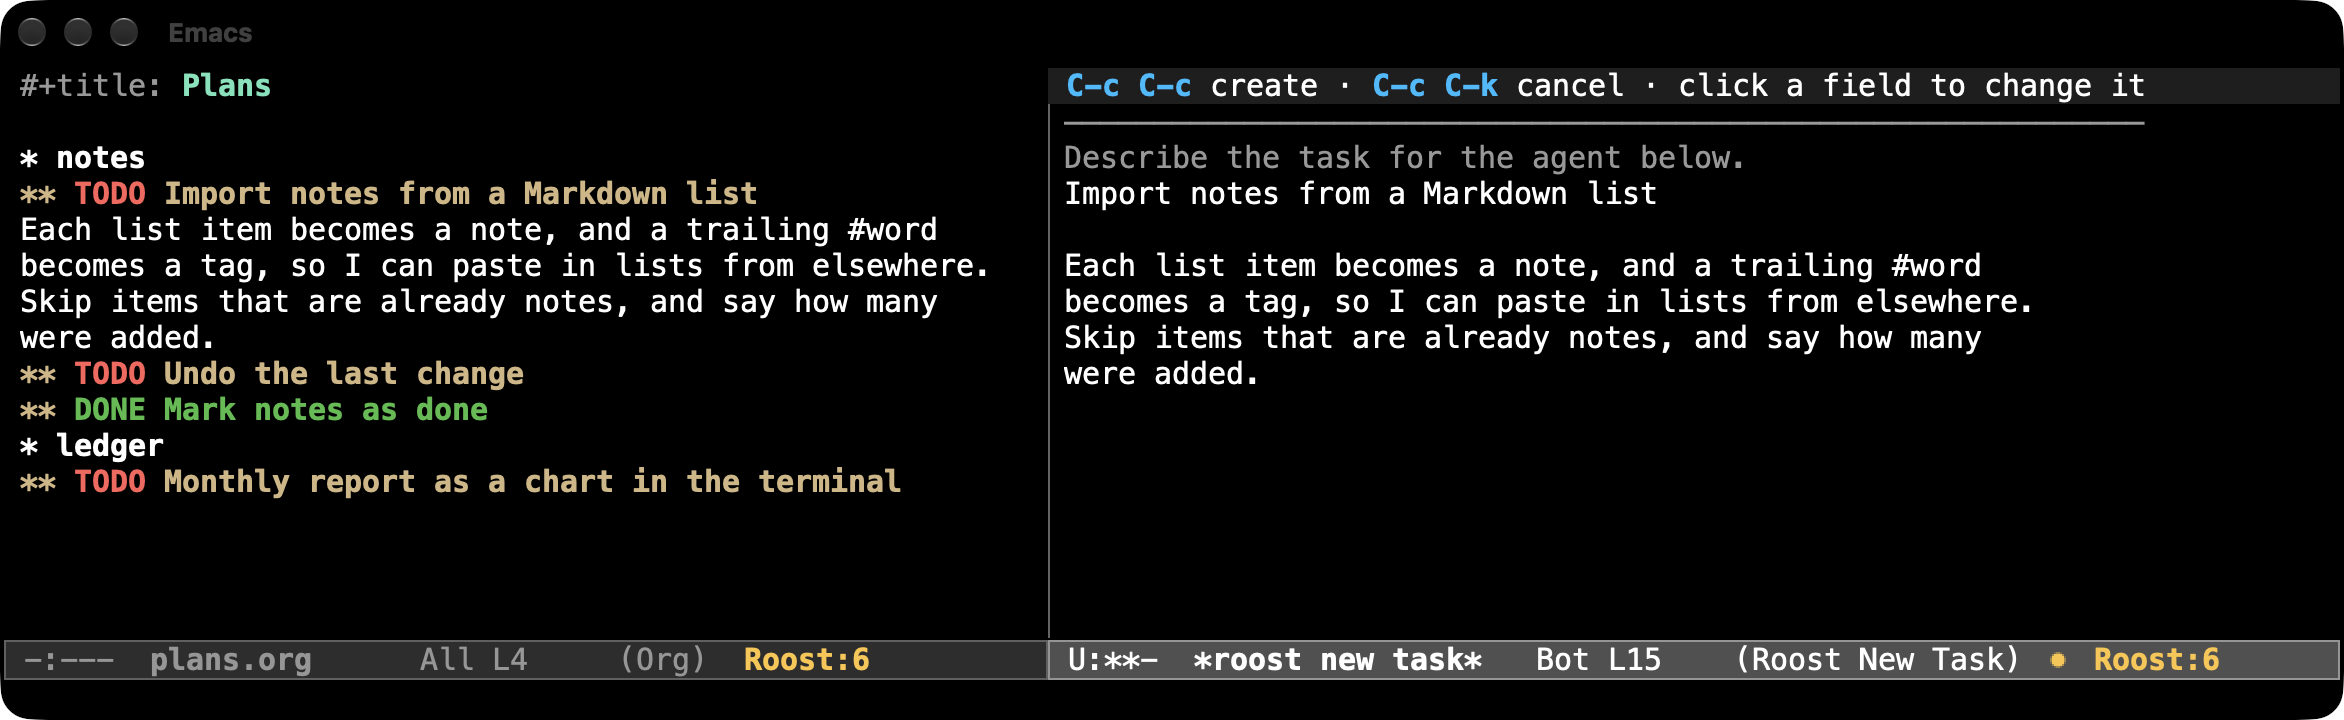
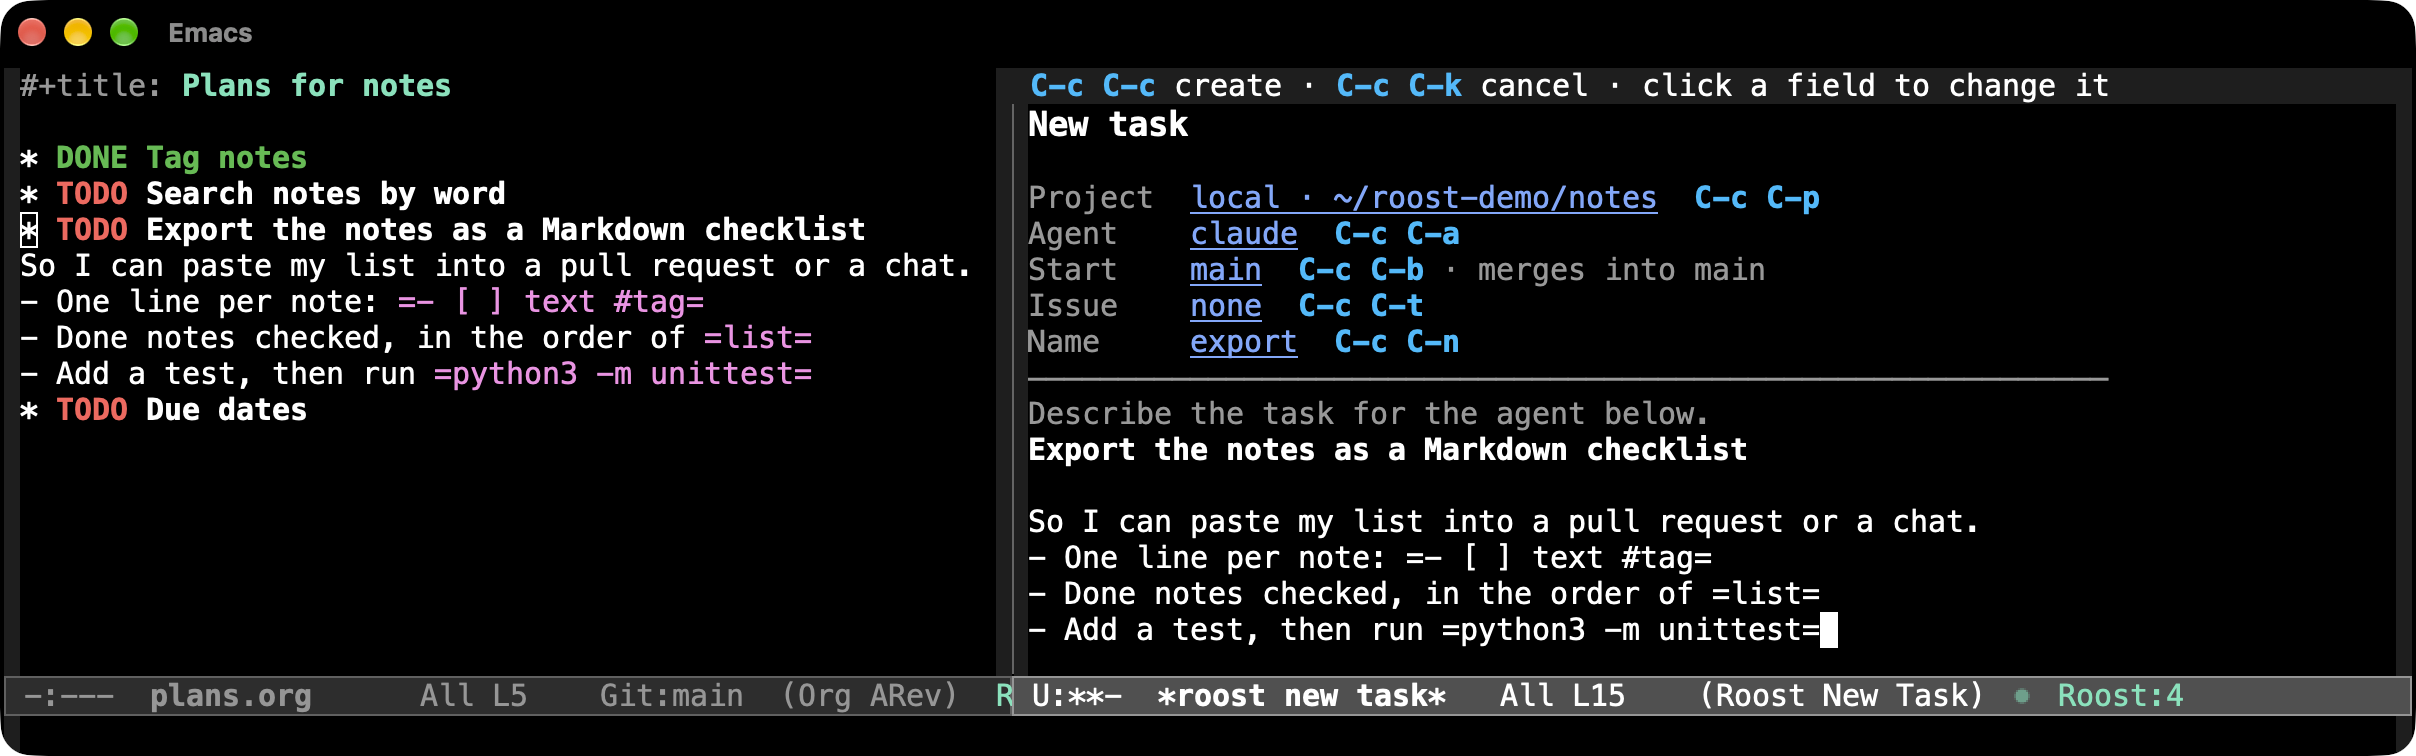
Show the README's task in four up-to-date stills, without the video (#110)

Changed region(s): [[0.0, 0.0917, 1.0, 1.0], [0.0, 0.0, 0.1246, 0.0611], [0.9966, 0.0, 1.0, 0.0306]]

diff --git a/docs/demo.md b/docs/demo.md
@@ -1,57 +1,48 @@
-# The README's screenshots and clip
+# The README's screenshots
 
-The images and the clip are native captures of GUI Emacs, taken while Claude
-Code worked on two small disposable projects: `notes`, a notes CLI on the Mac,
-and `ledger`, an expense-ledger CLI on the SSH host `claylien`. Every agent was
-a real Claude Code session (`--model haiku`), in its own terminal with its
+The images are native captures of GUI Emacs, taken while Claude Code worked
+on two small disposable projects: `notes`, a notes CLI on the Mac, and
+`ledger`, an expense-ledger CLI on the SSH host `claylien`. Every agent was a
+real Claude Code session (`--model haiku`), in its own terminal with its
 normal permission prompts. They ran with `--permission-mode acceptEdits`, so
 they asked before commands but not before edits.
 
 The capture Emacs was a plain Emacs 32 configuration, so that nothing personal
 distracts: the stock `modus-vivendi` theme and mode line, Menlo at 15 points,
-the fringe and margin given the theme's background, and Roost, tmux-control and
-Magit and nothing else. It had `roost-sidebar-mode`, `roost-task-panel-mode`
-and `roost-animations` on, and `roost-workspace` set to `nil`. It used a
-separate state directory and tmux socket named `roost-demo`; a normal setup
-shows `~/.local/share/roost` and your tmux-control socket.
+and Roost, tmux-control and Magit and nothing else. It had
+`roost-sidebar-mode`, `roost-task-panel-mode` and `roost-animations` on, and
+`roost-workspace` set to `nil`. It used a separate state directory and tmux
+socket named `roost-demo`; a normal setup shows `~/.local/share/roost` and
+your tmux-control socket.
 
 | File | What it shows |
 | --- | --- |
 | `roost-hero.png` | Six agents on two machines: the sidebar, the terminal of `budget-alerts` on `claylien` asking to run `python3 -m unittest`, and that task's panel |
-| `roost-dashboard.png` | The dashboard of the same six tasks, with `export` at work |
-| The clip | One task from an Org heading in `plans.org` to `main`: the draft, `n` to `budget-alerts` and its answer, a review note in Magit, the agent's revision and commit, and the merge |
-| `roost-new-task.png` | Not in the README since the clip: a draft opened on an Org heading, the heading and its notes the prompt |
-| `roost-review.png` | Not in the README since the clip: Magit on a task with a review note under the agent's change, and the box for another |
+| `roost-new-task.png` | `plans.org` beside the draft that `C-c r c` made from its heading, which started `export` |
+| `roost-review.png` | `tag-filter`'s terminal above the diff of `notes.py`, opened from its panel, with a review note under a line |
+| `roost-dashboard.png` | The dashboard of the same six tasks, with `budget-alerts` asking and `export` at work |
 
 ## How they were made
 
-`roost-hero.png`, `roost-dashboard.png` and the clip were taken on
-2026-10-16, for the sidebar that marks the task you are on with a band and
-names each task's status in a word. Six tasks were started with the prompts
-of the previous captures. To have one agent asking and one working at the
-moment of each capture, `budget-alerts`, `due-dates` and `export` were given
-follow-up prompts in their terminals, such as asking `budget-alerts` to show
-amounts with a thousands separator and then run its tests.
+All four were taken on 2026-10-21, with Roost as of 0.10.0 and the changes
+after it from its UX review, replacing a clip that played a task through and
+the stills from before it. Five tasks were started with prompts that ask the
+agent to run the tests with `python3 -m unittest`, and their prompts
+answered in their terminals until each finished. `export` was then drafted
+from the heading in `plans.org`. To have one agent asking and one working at
+the moment of the hero and the dashboard, `budget-alerts` was asked to show
+amounts with a thousands separator and run its tests, and `export` was given
+a further prompt just before each capture. The review note was written in
+the note box and saved; the box itself floats over the diff in a frame of
+its own, which a capture of the Emacs window leaves out.
 
-The clip was recorded as a movie of the Emacs window alone, with keys
-pressed through Emacs's input queue, and edited with ffmpeg:
-
-- The waits are cut, and the agent's two stretches of work play four times
-  faster, marked in the title bar.
-- The title bar names each key as it is pressed. These captions were added
-  in editing, as were the title bar's window buttons, which macOS replaces
-  with a recording indicator while a window is recorded.
-- The agent's last reply quoted the git author's email address; its three
-  lines are blacked out while they are on screen.
-- The new task's agent ran with `--permission-mode auto`, so its commands
-  were not asked about; `budget-alerts` kept `acceptEdits`, which is why it
-  asks.
-- Two tries at a note on a line wider than the diff's window, where the note
-  box did not open, were cut, and the note was written on a shorter line.
-
-`roost-new-task.png` dates from 2026-10-10 and `roost-review.png` from
-2026-10-11, in the same configuration. The disposable projects, tasks and
-capture state were removed afterwards each time.
+Each was taken at its own frame size, so that the text reads at the width
+GitHub shows the README: 172 columns by 36 lines for the hero, 132 by 19 for
+the draft, with the sidebar and panel off, 156 by 34 for the review, with the
+sidebar off, and 132 by 15 for the dashboard, with both off. The capture
+Emacs was given focus for a moment before each capture, so that its window
+looks active. The disposable projects, tasks and capture state were removed
+afterwards.
 
 ## Try the same workflow
 

diff --git a/README.md b/README.md
@@ -11,7 +11,7 @@ worktree, a branch and a terminal, here or on any SSH host. It tells you which
 agents need you, and you review and merge their work with Magit. If you've
 used Orca or Conductor, it's that idea, inside the Emacs you already use.
 
-![Emacs with three columns: Roost's sidebar listing six agents on two machines, the one you are on marked with a band and asking permission, four ready and one working; that agent's Claude Code terminal on the SSH host claylien, asking to run python3 -m unittest; and the task's panel, which says to answer it in its terminal and shows the prompt it was given and the files it has changed](docs/images/roost-hero.png)
+![Emacs with three columns: Roost's sidebar listing six agents on two machines, the one you are on marked with a band and asking permission, two ready, two you have seen and one working; that agent's Claude Code terminal on the SSH host claylien, asking to run python3 -m unittest; and the task's panel, which says to answer it in its terminal and shows the prompt it was given, your latest prompt and the files it has changed](docs/images/roost-hero.png)
 
 *Six Claude Code agents on two machines. The one on `claylien` wants to run
 its tests: its own terminal in the middle, every task at the left, and at the
@@ -19,24 +19,28 @@ right what to do next, what you asked it and what it changed.*
 
 ## A task, start to finish
 
-https://github.com/user-attachments/assets/674d01cc-2a8d-491a-ba9f-6605e48f997e
-
-*One task, from a heading in an Org file to `main`, in about a minute. The
-agent's work plays four times faster, and the title bar shows the keys
-pressed. `C-c r` opens Roost's menu, as in the setup [below](#get-started);
-in the dashboard, the sidebar and a task's panel its keys work alone.*
+One task, from a heading in an Org file to `main`. `C-c r` opens Roost's
+menu, as in the setup [below](#get-started); in the dashboard, the sidebar
+and a task's panel its keys work alone.
 
 1. **Start where the work is.** `C-c r c` on an Org heading drafts a task,
    with the heading and its notes as the prompt; a selected region or a
    GitHub issue works the same way. `C-c C-c` makes the worktree and branch
    and starts the agent.
+
+   ![An Org file of plans beside the draft that C-c r c made from its heading, Export the notes as a Markdown checklist: the project notes on this machine, the agent claude, starting from main and merging into main, the task named export, and the heading and its notes as the prompt](docs/images/roost-new-task.png)
+
 2. **Go where you're needed.** While it works, an agent on `claylien` asks to
    run its tests. `C-c r n` takes you to the next agent waiting for you, and
    you answer it in its own terminal.
 3. **Review, and reply in place.** The panel beside the terminal lists the
-   files the agent changed. A click opens one's diff in Magit, `;` writes a
-   note on a line, and `@` sends your notes to the agent. `C-c r r` opens
-   Magit on the whole worktree, over TRAMP for a remote task.
+   files the agent changed, and the other tasks that change them too. A
+   click opens one's diff in Magit, `;` writes a note on a line, and `@` in
+   Magit, or `e`, sends your notes to the agent. `C-c r r` opens Magit on
+   the whole worktree, over TRAMP for a remote task.
+
+   ![A task's terminal above the Magit diff of notes.py, with a review note under a changed line: list shows tags as #shop, so people will type --tag '#shop'; strip a leading # from TAG. Beside them, the task's panel lists the two files it changed, one review note for the agent, and the three other tasks that change the same files](docs/images/roost-review.png)
+
 4. **Finish.** The agent revises and commits. `C-c r m` squashes the task
    into the branch it started from and removes its worktree, branch and
    terminal. On the same menu, `u` brings a task up to date first, and `P`
@@ -46,7 +50,7 @@ in the dashboard, the sidebar and a task's panel its keys work alone.*
 it's doing, what it changed, and its latest reply or what it asks. A
 notification says the same when one finishes or asks for something.
 
-![The dashboard: two tasks on claylien, one asking to run python3 -m unittest, and four local ones, three finished and one working, each with its changes and latest reply](docs/images/roost-dashboard.png)
+![The dashboard, counting 1 permission, 2 ready, 2 seen and 1 running: two tasks on claylien, one ready and one asking to run python3 -m unittest, and four local ones, one ready, two you have seen and one working, each with its changes and latest reply](docs/images/roost-dashboard.png)
 
 ## How it differs
 
@@ -133,8 +137,8 @@ These work in the dashboard, the sidebar and a task's panel, and on the menu.
 - [A possible roadmap](docs/roadmap.md): ideas being considered, and the
   tools and [research](docs/research.md) they come from.
 - [Validation](docs/validation.md): live runs with Claude Code and Codex, on
-  local and remote hosts. [How the screenshots and the clip were
-  made](docs/demo.md), and [the MELPA recipes](docs/melpa.md).
+  local and remote hosts. [How the screenshots were made](docs/demo.md),
+  and [the MELPA recipes](docs/melpa.md).
 
 [Orca](https://www.onorca.dev/) shaped the workflow: a worktree per task, a
 terminal nearby, review before finishing. See the
